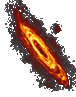
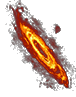
Tweak locations, add Milky way

diff --git a/src/renderskyplot.py b/src/renderskyplot.py
@@ -62,7 +62,7 @@ class RenderSkyPlot(RenderBase):
         
         # Pre-load the external resources
         self.background = preload_image('resources/panorama.png')
-        pygame.draw.circle(self.background, pygame.Color(15, 15, 15), (530, 540), 420, 0)
+        # pygame.draw.circle(self.background, pygame.Color(150, 150, 150), (530, 540), 420, 0)
         self.reticle_surface = preload_image_alpha('resources/reticle.png')
 
         bodies_yaml = yaml.safe_load(open("bodies.yml", "r"))
